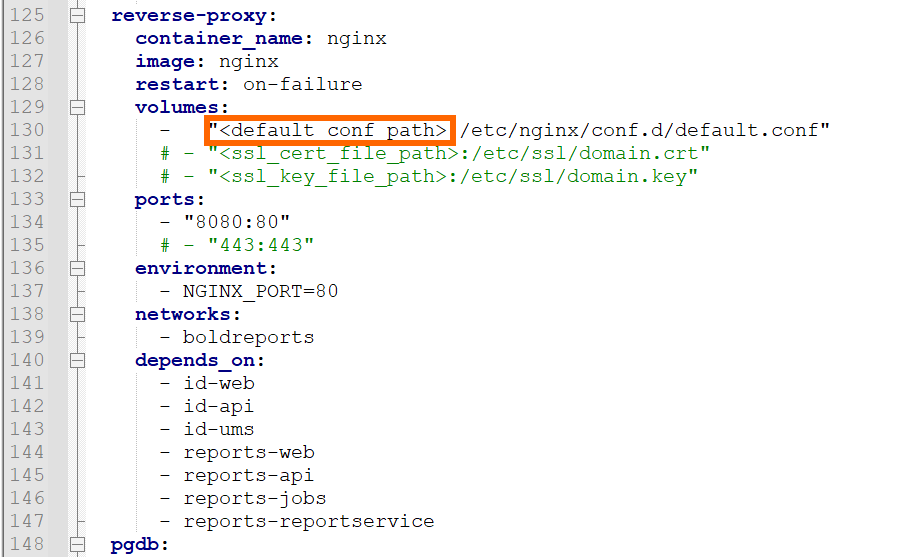
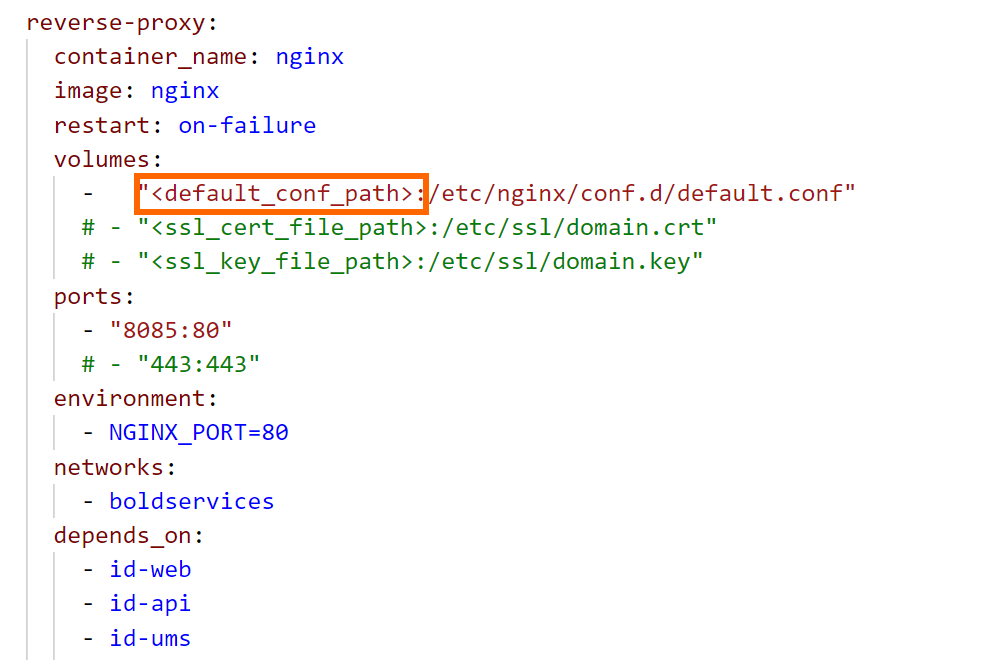
Modified Documentation for latest release

Changed region(s): [[0.0, 0.0, 0.9313, 1.0]]

diff --git a/docs/multiple-container.md b/docs/multiple-container.md
@@ -27,7 +27,7 @@ This quick-start guide demonstrates how to use Compose to set up and run Bold Re
 		services:
 		  id-web:
 			container_name: id_web_container
-			image: gcr.io/boldreports/bold-identity:3.3.23
+			image: gcr.io/boldreports/bold-identity:4.2.52
 			restart: on-failure
 			environment: 
 			   - APP_BASE_URL=<app_base_url>
@@ -44,7 +44,7 @@ This quick-start guide demonstrates how to use Compose to set up and run Bold Re
 				
 		id-api:
 		  container_name: id_api_container
-		  image: gcr.io/boldreports/bold-idp-api:3.3.23
+		  image: gcr.io/boldreports/bold-idp-api:4.2.52
 		  restart: on-failure
 		  volumes: 
 		    - boldservices_data:/application/app_data
@@ -60,7 +60,7 @@ This quick-start guide demonstrates how to use Compose to set up and run Bold Re
 			
 		id-ums:
 		  container_name: id_ums_container
-		  image: gcr.io/boldreports/bold-ums:3.3.23
+		  image: gcr.io/boldreports/bold-ums:4.2.52
 		  restart: on-failure
 		  volumes: 
 		    - boldservices_data:/application/app_data
@@ -76,7 +76,7 @@ This quick-start guide demonstrates how to use Compose to set up and run Bold Re
 			  
 		reports-web:
 		  container_name: reports_web_container
-		  image: gcr.io/boldreports/boldreports-server:3.3.23
+		  image: gcr.io/boldreports/boldreports-server:4.2.52
 		  restart: on-failure
 		  volumes: 
 		    - boldservices_data:/application/app_data
@@ -92,7 +92,7 @@ This quick-start guide demonstrates how to use Compose to set up and run Bold Re
         
 		reports-api:
           container_name: reports_api_container
-          image: gcr.io/boldreports/boldreports-server-api:3.3.23
+          image: gcr.io/boldreports/boldreports-server-api:4.2.52
           restart: on-failure
           volumes: 
             - boldservices_data:/application/app_data
@@ -109,7 +109,7 @@ This quick-start guide demonstrates how to use Compose to set up and run Bold Re
       
 		reports-jobs:
 		  container_name: reports_jobs_container
-		  image: gcr.io/boldreports/boldreports-server-jobs:3.3.23
+		  image: gcr.io/boldreports/boldreports-server-jobs:4.2.52
 		  restart: on-failure
 		  volumes: 
 			- boldservices_data:/application/app_data
@@ -127,7 +127,7 @@ This quick-start guide demonstrates how to use Compose to set up and run Bold Re
       
 		reports-reportservice:
 		  container_name: reports_reportservice_container
-		  image: gcr.io/boldreports/boldreports-designer:3.3.23
+		  image: gcr.io/boldreports/boldreports-designer:4.2.52
 		  restart: on-failure
 		  volumes: 
 			- boldservices_data:/application/app_data
@@ -152,7 +152,7 @@ This quick-start guide demonstrates how to use Compose to set up and run Bold Re
 			# - "<ssl_cert_file_path>:/etc/ssl/domain.crt"
 			# - "<ssl_key_file_path>:/etc/ssl/domain.key"
 		  ports:
-			- "8080:80"
+			- "8085:80"
 			# - "443:443"
 		  environment:
 			- NGINX_PORT=80

diff --git a/README.md b/README.md
@@ -2,6 +2,11 @@
 <br/>
 <br/>
 
+[![GitHub release (latest SemVer)](https://img.shields.io/github/v/release/boldreports/boldreports-docker?sort=semver)](https://github.com/boldreports/bold-reports-docker/releases)
+[![Documentation](https://img.shields.io/badge/docs-help.boldreports.com-blue.svg)](https://help.boldreports.com/enterprise-reporting/)
+[![File Issues](https://img.shields.io/badge/file_issues-boldreports_support-blue.svg)](https://www.boldreports.com/support)
+
+
 # What is Bold Reports
 
 Bold Reports Enterprise Reporting is a business intelligence report management tool, built by Syncfusion for creating, managing, and distributing pixel-perfect paginated RDL reports behind your organization’s firewall.
